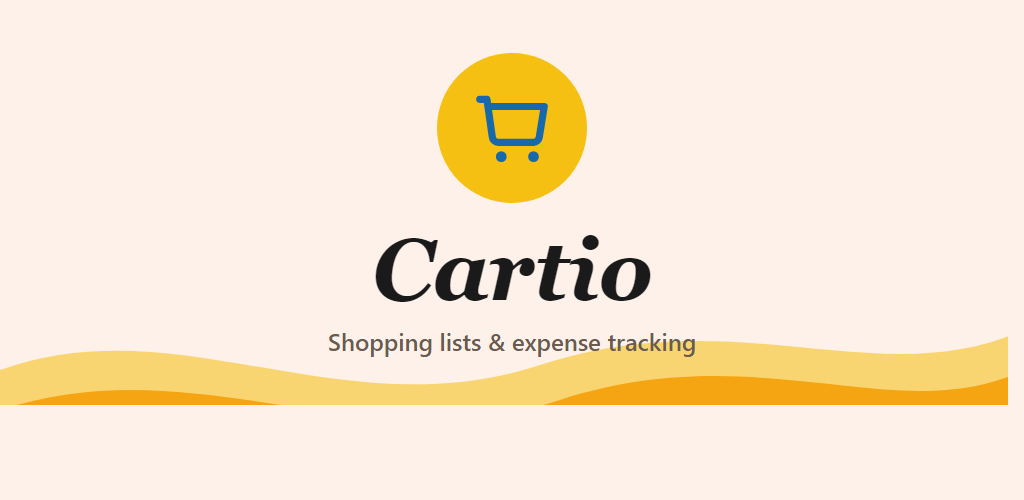
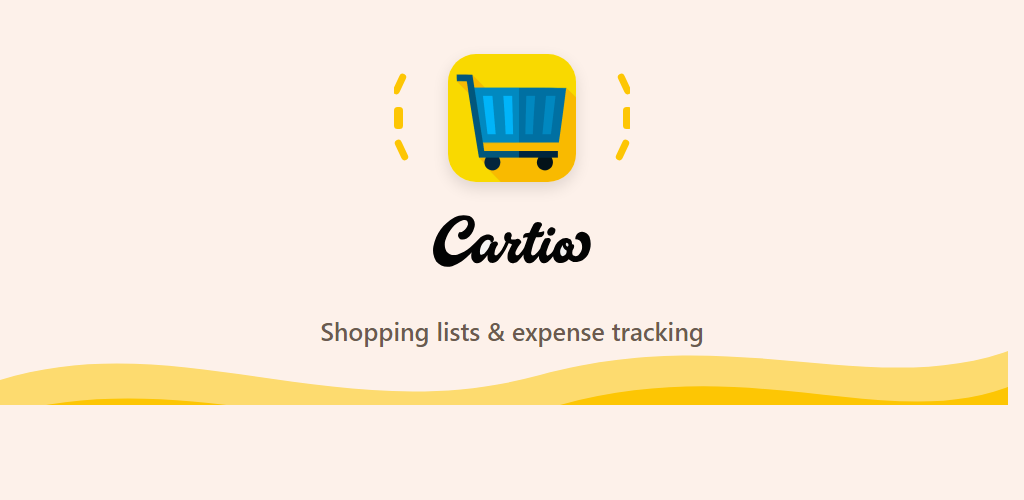
fix(CARTIO-021): rebuild feature graphic from real brand assets
Replaces the FEAT-019 feature graphic (generic font + improvised cart
icon) with one built from the actual splash screen wordmark vector,
the real hi-res Play Store icon, and exact brand wave colors.

diff --git a/specs/features/FEAT-021-feature-graphic-rebuild.md b/specs/features/FEAT-021-feature-graphic-rebuild.md
@@ -1,0 +1,20 @@
+# FEAT-021 — Feature Graphic Rebuild
+
+## Objective
+
+Replace the FEAT-019 feature graphic, which used hand-drawn placeholder branding (generic font wordmark, improvised cart icon), with one built directly from the app's real brand assets.
+
+## What changed
+
+- Wordmark: now the exact vector logotype from `branding/splash_screen.svg` (the hand-drawn "Cartio" script glyph with its highlight/shading subpaths), not a generic italic serif font.
+- Icon: now the actual hi-res Play Store icon (`docs/play-store/icon-512.png`, same file used for the icon listing asset), not an improvised SVG cart glyph.
+- Sparkle accents: small rotated tick marks flanking the icon, echoing the sparkle decoration in the real splash screen SVG (same brand yellow, `#fdc604`).
+- Wave footer: redrawn for the 1024×500 landscape aspect (the original SVG's wave was authored for a 135×300 portrait canvas and can't be reused verbatim without distortion), using the exact two brand hex colors from the SVG (`#fdc604`, `#fddb6f`) rather than approximated ones.
+
+## Decisions
+
+| Decision | Choice |
+|---|---|
+| Source of truth | `branding/splash_screen.svg` for wordmark path data and exact brand colors; `docs/play-store/icon-512.png` for the icon artwork |
+| Wave | Redrawn, not reused verbatim — portrait-authored wave geometry doesn't translate to a landscape banner without distortion; colors matched exactly instead |
+| Build method | Same as FEAT-019: standalone HTML at exact 1024×500, rendered via headless Chrome (`--headless=new --force-device-scale-factor=1`), HTML source discarded after render |

diff --git a/specs/README.md b/specs/README.md
@@ -22,3 +22,4 @@
 | FEAT-018 | Play Billing Library 8 -> 9 Migration | Done | feature/CARTIO-018-billing-v9-migration |
 | FEAT-019 | Store Listing Assets | Done | feature/CARTIO-019-store-listing-assets |
 | FEAT-020 | Data Safety Form Mapping | Done | feature/CARTIO-020-data-safety-mapping |
+| FEAT-021 | Feature Graphic Rebuild | Done | feature/CARTIO-021-feature-graphic-rebuild |
